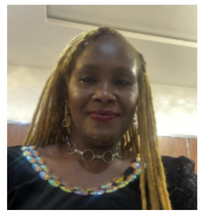
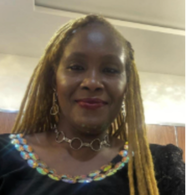
members image fix

diff --git a/src/index.css b/src/index.css
@@ -879,16 +879,27 @@ p {
 }
 
 .member:hover .member__photo {
-  transform: scale(1.05) rotate(-2deg);
+  transform: scale(1.05);
 }
 
+.member__photo span {
+  display: block;
+  width: 100%;
+  height: 100%;
+  border-radius: 50%;
+  border: 4px solid var(--white);
+  overflow: hidden;
+  background: var(--white);
+}
+
+/* Zoom in so the white frames baked into some photos fall outside the circle. */
 .member__photo img {
   width: 100%;
   height: 100%;
   object-fit: cover;
-  object-position: top;
-  border-radius: 50%;
-  border: 4px solid var(--white);
+  object-position: center top;
+  transform: scale(1.2);
+  transform-origin: center 8%;
 }
 
 .member strong {
@@ -1915,12 +1926,6 @@ p {
   overflow: hidden;
   box-shadow: var(--shadow);
   cursor: zoom-in;
-  transform: rotate(-2deg);
-  transition: transform 0.3s ease;
-}
-
-.award__img:hover {
-  transform: rotate(0);
 }
 
 .award__img img {

diff --git a/src/components/Team.tsx b/src/components/Team.tsx
@@ -25,7 +25,9 @@ export default function Team() {
           {team.map((p, i) => (
             <li className="member reveal" style={{ transitionDelay: `${(i % 5) * 70}ms` }} key={p.name}>
               <div className="member__photo">
-                <img src={p.photo} alt={p.name} loading="lazy" />
+                <span>
+                  <img src={p.photo} alt={p.name} loading="lazy" />
+                </span>
               </div>
               <strong>{p.name}</strong>
               <span>{p.role}</span>
